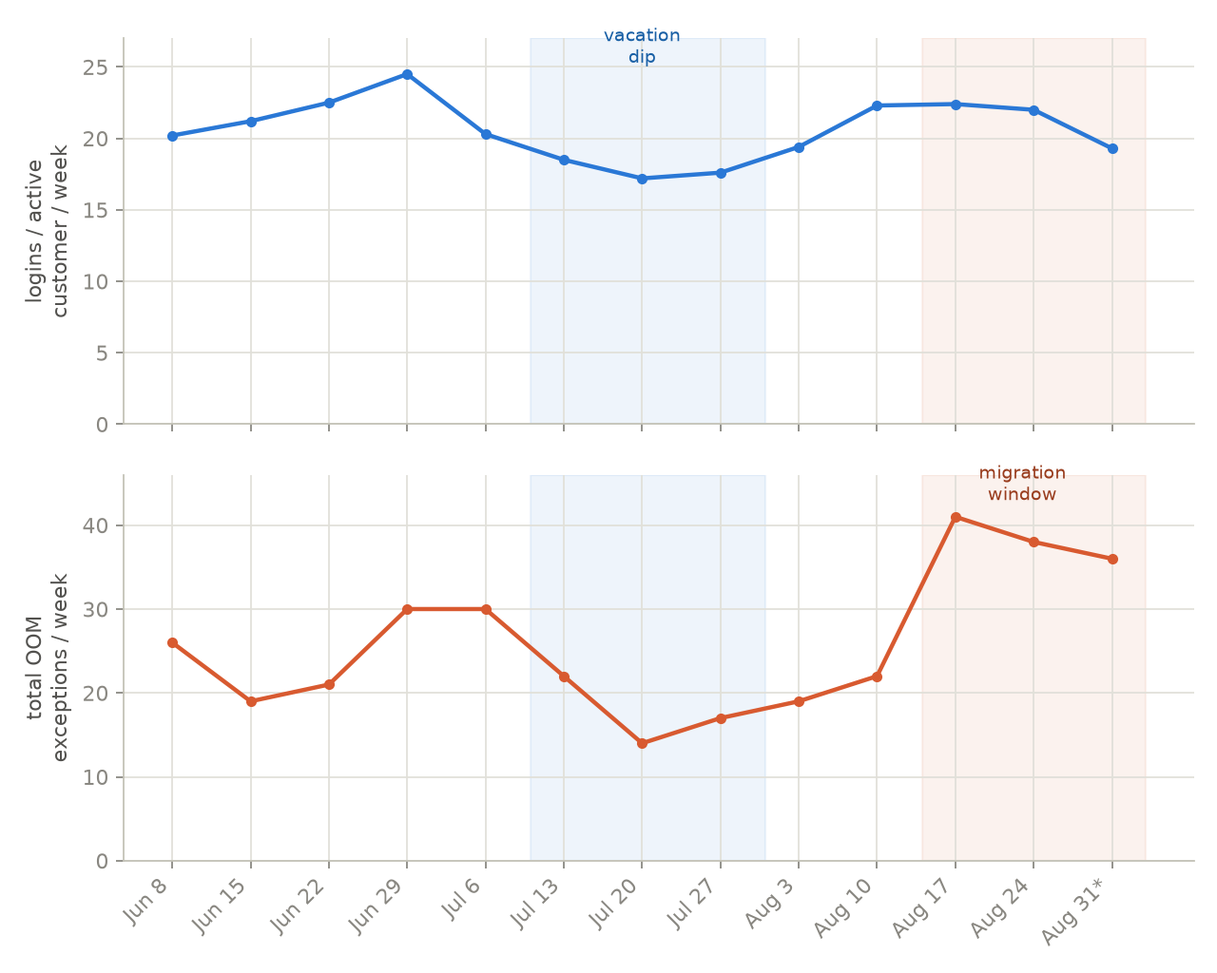
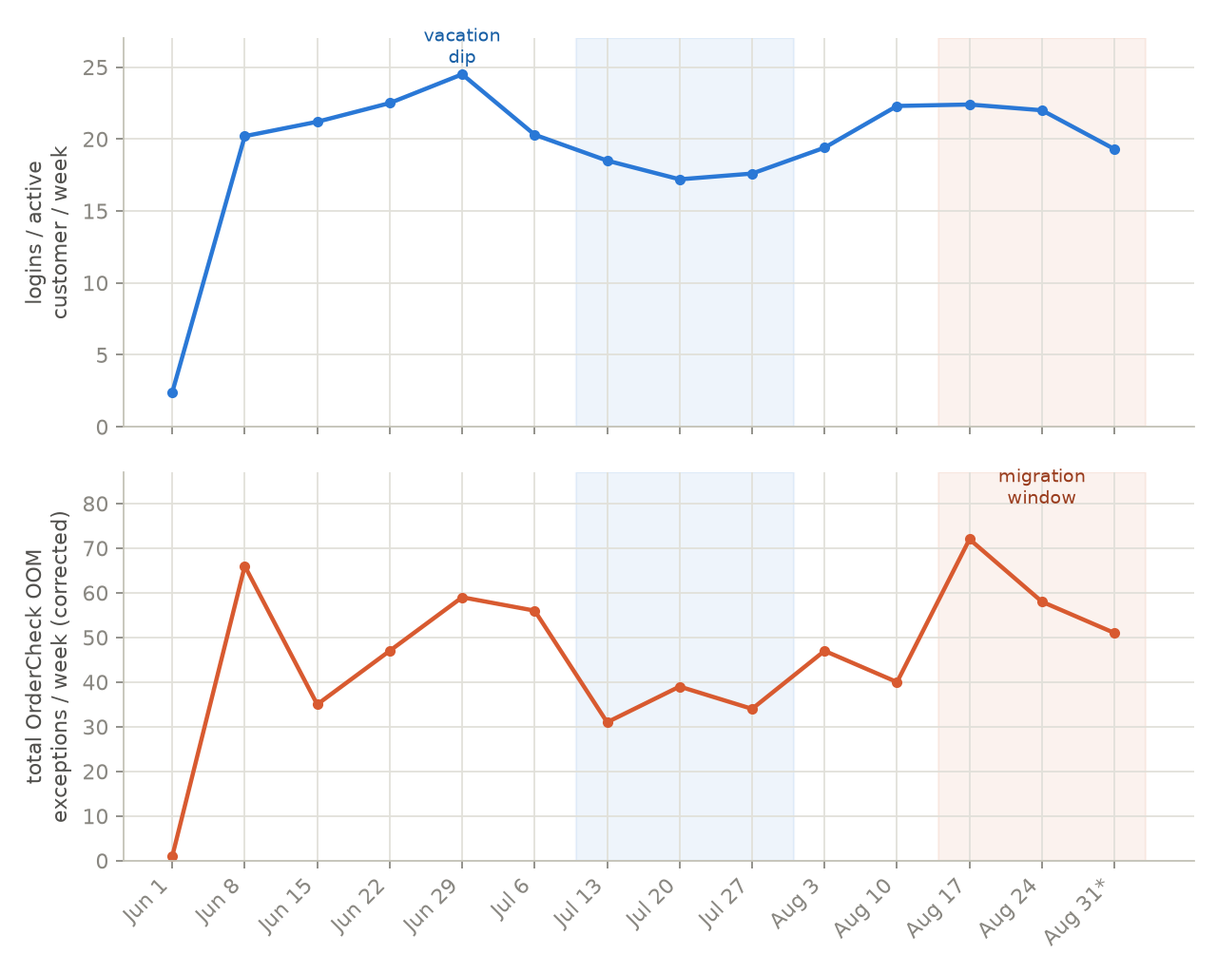
correct ordercheck oom counts to include pre-OrderCheck ExecuteDataSet crashes, add other-sources breakdown

diff --git a/Support/support-ordercheck-search-oom-and-freezes.md b/Support/support-ordercheck-search-oom-and-freezes.md
@@ -1,13 +1,15 @@
 # Incident: OrderCheck search — slow responses, UI freezes, and OutOfMemoryExceptions
 
 **Status:** Under investigation — root cause not fully confirmed, contributing factors identified
-**Scope:** Fleet-wide (43+ customers affected by OOM crashes in 30 days); UI freeze pattern confirmed in detail for one customer
+**Scope:** Fleet-wide (133 customers, 636 OrderCheck OOM crashes in the last 90 days; 91 customers, 260 crashes in the last 30 days); UI freeze pattern confirmed in detail for one customer
 **Date of write-up:** 2026-09-03
 **Related:** [PR #13088 "Move OrderCheck search off the UI thread"](https://opter.ghe.com/code/Main/pull/13088) (open since 2026-06-17, unreviewed)
 
 ## Summary
 
-Customers searching in Order Control (OrderCheck) intermittently experience either a frozen application (up to 21+ minutes observed) or a hard failure dialog ("Fel vid hämtande av data — Kontakt din systemadministratör"). Both symptoms trace back to the same server-side code path: `OrderCheck.GetAllSimpleResult` → `OrderCheck.LoadSearchResultModelsFromDataSet`. The failure dialog case has been confirmed to be a genuine `System.OutOfMemoryException` server-side, occurring for 43 different customers in the last 30 days. The freeze case has been confirmed via DeadlockWatchdog telemetry to be a real multi-minute block on the UI thread, not a false positive.
+Customers searching in Order Control (OrderCheck) intermittently experience either a frozen application (up to 21+ minutes observed) or a hard failure dialog ("Fel vid hämtande av data — Kontakt din systemadministratör"). Both symptoms trace back to the same server-side code path: `OrderCheck.GetAllSimpleResult` → `OrderCheck.LoadSearchResultModelsFromDataSet`. The failure dialog case has been confirmed to be a genuine `System.OutOfMemoryException` server-side, occurring for **133 different customers, 636 times, in the last 90 days** (91 customers, 260 times, in the last 30 days) — this figure includes crashes that fail earlier in the pipeline, during `ExecuteDataSet`'s post-processing step, before execution ever reaches OrderCheck's own C# code (see Fact #3 below; an earlier pass undercounted this by about half). The freeze case has been confirmed via DeadlockWatchdog telemetry to be a real multi-minute block on the UI thread, not a false positive.
+
+For context, OrderCheck accounts for the large majority (~86%) of all `OutOfMemoryException`s in `Opter.Main.ServerApi`: the remaining ~14% (105 occurrences, 24 customers, 90 days) come from unrelated features — the Statistics API, single-order loading, Dispatch, and auto-dispatch route planning — that share the same underlying architectural pattern (see "Other ServerApi OOM sources" below) but are not part of this incident's scope.
 
 Investigation found a long-standing structural weakness in how OrderCheck materializes search results, a client-side design flaw that turns any slow server response into a full application freeze, and a correlation with the .NET 9 → .NET 10 runtime upgrade that shipped between the `2025.06` and `2025.12` release branches. No single root cause has been conclusively isolated; several contributing factors have been identified and are ranked below.
 
@@ -17,13 +19,15 @@ Investigation found a long-standing structural weakness in how OrderCheck materi
 |---|---|---|
 | Markis City Service AB (`markiscityse`) | UI freezes, no crashes | 263 DeadlockWatchdog freeze episodes in 30 days; several 200-500+ seconds; one 1305-second (21.75 min) outlier on 2026-09-01; affects at least 8 different workstations |
 | itide.no | Hard crash, "Fel vid hämtande av data" | Freshdesk ticket #149308, 2026-08-31; log shows `System.OutOfMemoryException` in `OrderCheck.LoadSearchResultModelsFromDataSet` |
-| 41 other customers | Same OOM exception | Confirmed via Azure Log Analytics (`Logs_CL`), same exact exception/stack, 100+ occurrences in 30 days |
+| 90 other customers | Same OOM exception | Confirmed via Azure Log Analytics (`Logs_CL`), same underlying bug (both the OrderCheck-labeled and the earlier-in-pipeline manifestation — see Fact #3), 91 distinct customers total (260 occurrences) in the last 30 days |
 
 Notably, Markis City Service — the customer with by far the most severe and frequent *freezes* — has **zero** OOM exceptions in the same 30-day window. Freezing and crashing are related symptoms of the same code path but are not the same event, and don't always co-occur for the same customer.
 
 ## Evidence: OOM trend and version migration (90 days, weekly)
 
-**Methodology note**: customer counts below are scoped to `Assembly == "Opter.Main.ServerApi"` only, with one version picked per customer per week (`arg_max` by time). An earlier pass counted a customer as "active on version X" if *any* of their services (across `Client`, `ServerApi`, `Web.App`, `MessageServer`, unrelated components like `FAQ.Routing`, etc.) reported that version prefix — this let a single customer be counted into multiple, non-mutually-exclusive branch buckets in the same week, and pulled in an unrelated component (`Opter.FAQ.Routing`, static version `1.0.0.0`, unrelated to release branches) that inflated an "other" bucket with no real meaning. That first pass is not used below; the charts and numbers here use the corrected, single-assembly methodology.
+**Methodology note (customer counts)**: customer counts below are scoped to `Assembly == "Opter.Main.ServerApi"` only, with one version picked per customer per week (`arg_max` by time). An earlier pass counted a customer as "active on version X" if *any* of their services (across `Client`, `ServerApi`, `Web.App`, `MessageServer`, unrelated components like `FAQ.Routing`, etc.) reported that version prefix — this let a single customer be counted into multiple, non-mutually-exclusive branch buckets in the same week, and pulled in an unrelated component (`Opter.FAQ.Routing`, static version `1.0.0.0`, unrelated to release branches) that inflated an "other" bucket with no real meaning. That first pass is not used below; the charts and numbers here use the corrected, single-assembly methodology.
+
+**Methodology note (OOM counts)**: the OOM figures and charts below use the *complete* OrderCheck definition — `Exception has "OrderCheck"`, `Exception has "LoadSearchResultModelsFromDataSet"`, or `Message has "k2_orc_get_all"` — which captures crashes regardless of whether they happen inside OrderCheck's own C# code or one step earlier, during `ExecuteDataSet`'s generic post-processing (where the stack trace never mentions "OrderCheck" even though the query being executed is `k2_orc_get_all`/`k2_orc_get_all_by_all`). An earlier pass used only the first two conditions and undercounted OrderCheck's true OOM total by roughly half (see "Other ServerApi OOM sources" below for the full breakdown and how this was found). All charts in this section were regenerated with the corrected definition.
 
 ![Weekly OrderCheck OutOfMemoryException count, split by ServerApi version](images/ordercheck-oom-weekly-by-version.png)
 
@@ -41,21 +45,21 @@ What these show:
 
 ![Weekly login volume vs. total OOM exceptions, showing the vacation dip and the migration window as two distinct effects](images/ordercheck-login-vs-oom-crosscheck.png)
 
-- **The vacation dip and the migration wave are two separate, additive effects on the OOM count, not one confounding the other.** Total weekly OOM count (summed across all versions) correlates with login volume at **r = 0.63** during the stable pre-migration window (2026-06-08 through 2026-08-10) — the OOM curve visibly tracks the login curve's shape, bottoming out in the same week (Jul 20, the lowest point in both series). That correlation weakens to r = 0.49 once the migration weeks are folded in, because the migration window (Aug 17 onward) decouples the two: login volume stays roughly flat (~22/week) while OOM count jumps from 22 to 41, driven by branch composition rather than usage. Practically: the vacation dip modestly suppressed incident counts in July; the migration then dominates and drives counts well above anything usage volume alone would explain.
+- **The vacation dip and the migration wave are two separate, additive effects on the OOM count, not one confounding the other — though the correlation is more modest than an earlier pass reported.** Total weekly OOM count (summed across all versions, corrected definition) correlates with login volume at **r = 0.46** during the stable pre-migration window (2026-06-08 through 2026-08-10) — weaker than the r = 0.63 calculated against the earlier, undercounted OOM series (that series was missing about half the true OrderCheck OOM volume, concentrated unevenly across weeks, which distorted the correlation). The two curves still broadly move together — both dip through the vacation weeks (OOM bottoms at 31/week on Jul 13, logins bottom at 17.2/week on Jul 20, one week apart rather than the same week) — but a single anomalous week (Jun 8, where `2025.06` alone accounts for 44 of that week's 66 OrderCheck OOM exceptions, concentrated rather than spread across customers) weakens the fit. Full-13-week correlation (including the migration window) is r = 0.52. The migration window (Aug 17 onward) still visibly decouples the two series: login volume stays roughly flat (~22/week) while total OOM count jumps from 40 (Aug 10) to 72 (Aug 17), driven by branch composition rather than usage.
 - **A third cohort exists**: a stable ~23-32 customers throughout the period run a separate `20260101.*` build family, distinct from both `2025.06` and `2025.12`. This is a real, minor branch, not noise.
-- **The incidence-rate gap is not just a 90-day aggregate artifact**: normalizing OOM count by active customers per branch per week, `2025.12` runs at roughly 2.4-7.9 exceptions per 100 customers most weeks, versus `2025.06` at roughly 0.2-5.5 (weeks with fewer than 10 remaining `2025.06` customers are omitted from that line as statistically unreliable — this excludes the final two weeks, where the migration itself was still completing mid-week and produces a weekly-binning artifact: a customer who migrated mid-week is attributed wholly to `2025.12` for that week's customer count, while any `2025.06`-version exceptions they threw earlier that same week still show up in the `2025.06` numerator). The rate gap holds consistently from the very first week of the observation window, before the migration wave even accelerated — i.e. it isn't an effect of the migration itself, it predates it.
+- **The incidence-rate gap holds up under the corrected OOM definition, though it's noisier week-to-week than "consistently double."** Normalizing OOM count by active customers per branch per week, `2025.12` averages **8.7** exceptions per 100 customers across the 12 comparable weeks (before the final two weeks' customer counts become too small to trust), versus `2025.06` averaging **6.5** — about 1.35x, down slightly from the 1.55x calculated against the undercounted series. `2025.12` runs higher in 8 of those 12 weeks; `2025.06` is actually higher in the other 4 (including the very first week, and the Jun 8 anomaly above). The gap is a real, persistent tendency across enough weeks to be meaningful — not a rule that holds in every single week.
 
 ## Facts (directly observed/confirmed)
 
 1. Multiple customers have reported slow OrderCheck searches and hard error dialogs.
 2. At least one confirmed case (itide.no, ticket #149308, 2026-08-31) traced the error dialog directly to a server-side `System.OutOfMemoryException` thrown in `Opter.Main.Server.Orders.OrderCheck.OrderCheck.LoadSearchResultModelsFromDataSet`, called from `GetAllSimpleResult`.
-3. The identical exception, in the identical code path, has occurred for **43 distinct customers, 100+ times in the last 30 days** — this is a fleet-wide issue, not isolated to one customer.
+3. The identical underlying bug has occurred for **91 distinct customers, 260 times, in the last 30 days** (133 customers, 636 times, in the last 90 days) — this is a fleet-wide issue, not isolated to one customer. This figure combines two manifestations of the same root cause: crashes where the stack trace explicitly names `OrderCheck`/`LoadSearchResultModelsFromDataSet` (the manifestation an earlier pass of this investigation counted alone — 260/91 90-day, i.e. undercounting by about half), and crashes that fail one step earlier in the pipeline, inside `DatabaseAccess.ExecuteDataSet`'s post-processing (`AdjustTimeZoneToLocalTime`), before execution ever reaches OrderCheck's own C# code — identifiable only via the `Message` field, which logs the actual stored procedure called (`k2_orc_get_all`/`k2_orc_get_all_by_all`). See "Other ServerApi OOM sources" below for how this was found and what else shares the same underlying pattern.
 4. DeadlockWatchdog logs confirm genuine multi-minute UI-thread freezes for Markis City Service: 263 episodes over 30 days, several 200-500+ seconds, one 21-minute outlier, all tied specifically to `OrderCheckViewModel.get_SearchCommand` → `GetAllSimpleResult`.
 5. The client makes this call **synchronously on the UI thread**: `SearchCommand` is a plain (non-async) `RelayCommand` whose handler calls `CallerBase.RestCall`, which blocks via `.GetAwaiter().GetResult()`. Confirmed by direct code inspection ([OrderCheckViewModel.cs](../../Main/Order/ViewModels/Order/OrderCheck/WPF/OrderCheckViewModel.cs), [CallerBase.cs](../../Main/ServerProxy/CallerBase.cs)), not inferred.
 6. Freezes cluster across multiple users/machines within the same time windows (observed in Markis City Service's data — e.g. MC040 and ANDREAS-LAPTOP both froze for 295-499s within minutes of each other on 2026-09-02).
 7. **Not all freezes correlate with OOM crashes.** Markis City Service had 263 freeze episodes but zero OOM exceptions in the same period.
 8. `releases/2025.06` targets **.NET 9.0**; `releases/2025.12` (and `master`) target **.NET 10.0** — confirmed via `.csproj` (`ServerApi/Opter.Main.ServerApi.csproj`).
-9. Customers on `2025.12` show a higher OOM incidence than customers on `2025.06`, both in the 90-day aggregate (11.5% of that branch's customers vs. 7.7%) and, more granularly, in a corrected week-by-week incidence rate (~2.4-7.9 vs. ~0.2-5.5 OOM exceptions per 100 active customers per week — see "Evidence: OOM trend and version migration" above). `2025.12` also shows higher peak ServerApi pod memory (91.9% max vs 54.4% max of the pod's 1000 MB container limit, in the settled 6-24h-uptime window). The weekly rate gap is present from the first week of the 90-day window, before the `2025.06`→`2025.12` migration wave accelerated — it is not an artifact of the migration itself.
+9. Customers on `2025.12` show a higher OOM incidence than customers on `2025.06` on average, using the corrected (complete) OOM definition: **8.7 vs. 6.5 exceptions per 100 active customers per week** on average across the 12 comparable weeks (~1.35x) — `2025.12` runs higher in 8 of those 12 weeks, `2025.06` in the other 4 (see "Evidence: OOM trend and version migration" above for the full breakdown; this replaces an earlier, undercounted calculation that showed a ~1.55x gap and overstated its week-to-week consistency). `2025.12` also shows higher peak ServerApi pod memory (91.9% max vs 54.4% max of the pod's 1000 MB container limit, in the settled 6-24h-uptime window). The rate gap is present from the first week of the 90-day window, before the `2025.06`→`2025.12` migration wave accelerated — it is not an artifact of the migration itself, though it is noisier week-to-week than a clean, monotonic law.
 10. No explicit GC tuning exists anywhere in the stack — not in any `.csproj`, not in `ServerApi/Dockerfile`, not in the shared base image (`VersionBuilder/BaseImage/Dockerfile`, which is just `mcr.microsoft.com/dotnet/aspnet:10.0` + fonts). Both .NET 9 and .NET 10 builds run on stock GC defaults (`System.GC.Server: true`, the SDK default for ASP.NET Core apps).
 11. **No substantive functional diff exists between `2025.06` and `2025.12`** for `OrderCheck.cs`, `ModelBase.cs` (incl. `Clone<T>()`), `OrderCheckSearchResult.cs`, or `k2_orc_get_all_by_all.sql`, beyond CSharpier reformatting and two trivial (2-10 line) additions (an access-attribute annotation, and loading one extra string field `SHI_SubcontractorResource`). This is a direct branch-to-branch comparison (`git diff`/`git log releases/2025.06..releases/2025.12`), which lists every commit present in `2025.12` but not `2025.06` regardless of how old it is — it is **not** time-boxed, and already surfaced commits from November 2025 and February 2026. So this rules out a code-level explanation across the full lifetime of both branches, not just recent history. (An earlier, separate "any changes in the last 3 months" check was run first and is superseded by this — that check was time-boxed and would have missed older changes on its own; it is not independent evidence and shouldn't be read as such.)
 12. For Markis City Service's shared SQL elastic pool (`opterproductionsweden1c`), CPU %, Data IO %, and Workers % all sit comfortably within headroom over the last 7 days (CPU peaks ~40-50%, Data IO ~20-25%, Workers near 0%). Aggregate resource exhaustion is ruled out for that pool, on those three metrics.
@@ -69,23 +73,48 @@ What these show:
   - For Consignment/Shipment/PriceItemCost search modes, every shipment/price-item beyond the first calls `ModelBase.Clone<T>()` ([ModelBase.cs:76-100](../../Main/Model/ModelBase.cs)), which reflects over **all ~350 properties** to produce a full duplicate object — not a lean child row. A delivery with 10 shipments costs 11 full-size objects instead of 1 large + 10 small. This is an O(rows × fanout) memory (and CPU) multiplier with no ceiling.
   - No safeguard exists anywhere: no max-row check, no warning, no TODO acknowledging the risk.
 
+## Other ServerApi OOM sources (why OrderCheck's count needed correcting)
+
+Checking `Assembly == "Opter.Main.ServerApi"` for **every** `OutOfMemoryException` in the last 90 days, regardless of feature, splits cleanly into two groups:
+
+| | Occurrences | Distinct customers |
+|---|---|---|
+| OrderCheck (complete definition — see methodology note above) | **636** | **133** |
+| Everything else in ServerApi | **105** | **24** |
+
+OrderCheck is ~86% of all ServerApi OOM crashes fleet-wide. The "everything else" bucket breaks down as:
+
+| Source | Occurrences | Customers | Feature |
+|---|---|---|---|
+| `System.Data.Common.DecimalStorage.Get` | 34 | 1 | Unidentified — concentrated in a single customer hitting a different repeated OOM |
+| `Opter.Main.Server.Dispatching.DispatchV2.ParseDataContainer` | 21 | 2 | Dispatch |
+| `k2_stat_api_query_by_changed` (via generic `ExecuteDataSet`/`AdjustTimeZoneToLocalTime`) | 30 | 3 | Statistics API — bulk change-export over a wide date range |
+| `System.Data.Common.Int32Storage.Get` | 9 | 2 | Unidentified |
+| `k2_ods_get_order` (via generic `ExecuteDataSet`) | 5 | 4 | Single-order data-structure load |
+| `Opter.Main.Order.AutoDispatching.AutoDispatch.GetRoutePlans` / `QueueItem` | 13 + 7 | 1 each | Auto-dispatch route planning |
+| Long tail (~15 distinct causes) | ~1-4 each | mostly 1 | Scattered, various mechanisms |
+
+**How the OrderCheck undercount was found**: the original filter (`Exception has "OrderCheck"` or `"LoadSearchResultModelsFromDataSet"`) missed every case where the `OutOfMemoryException` fires *before* control reaches OrderCheck's own C# code — specifically, inside `DatabaseAccess.ExecuteDataSet`'s generic post-processing step (`AdjustTimeZoneToLocalTime`, which walks the freshly-loaded `DataSet` adjusting date/time columns, itself unbounded and equally capable of exhausting memory on a large result set). When the crash happens there, the stack trace never contains the word "OrderCheck" — but the `Message` field logs the actual stored procedure invoked, and checking that revealed **300 of the 90-day total came from `k2_orc_get_all`/`k2_orc_get_all_by_all`** (OrderCheck's own stored procedure) despite not matching the original filter. The same generic `ExecuteDataSet`/`AdjustTimeZoneToLocalTime` code path is shared by several other features (Statistics API, single-order load), which is how those were discovered as genuinely separate, smaller sources.
+
+**Implication**: the root-cause fix (row cap and/or streaming, see Recommended next steps) belongs at the shared `DatabaseAccess.ExecuteDataSet`/`AdjustTimeZoneToLocalTime` layer, not solely in OrderCheck's `LoadSearchResultModelsFromDataSet`. OrderCheck is overwhelmingly the biggest instance of this pattern, but not the only one — a fix scoped only to OrderCheck's `Clone<T>()` fan-out would leave the Statistics API, Dispatch, and auto-dispatch instances of the same underlying weakness in place.
+
 ## Open questions / not yet ruled out
 
 - **Database vs. pod as the source of slow response — unresolved.** We've ruled out *aggregate* SQL resource exhaustion for one customer's elastic pool on three metrics (CPU/IO/Workers), but:
   - Lock/blocking contention is invisible to those metrics and has not been checked (would need Query Store or a live blocking-chain capture during an incident).
   - No other customer's database has been examined.
   - No actual execution plan for `k2_orc_get_all_by_all` has been pulled.
-- **The .NET 9→10 GC behavior change is a hypothesis, not a confirmed mechanism.** We have a real, consistent correlation (higher peak memory + higher OOM rate on the .NET 10 branch, with no other explanatory code change found) but have not verified against .NET's actual GC release notes what, if anything, changed in Server GC's container-memory-limit heuristics between .NET 9 and .NET 10.
-- **Sample size caveat, updated**: with the corrected weekly counts, the `2025.06` (.NET 9) group ranges from ~270-280 customers down to single digits as the migration completes, vs. ~290-570 on `2025.12` (.NET 10). The rate gap is visible in most individual weeks, not just the 90-day aggregate, which strengthens confidence — but the final two weeks of `2025.06` data are excluded from the rate comparison (fewer than 10 remaining customers, and a weekly-binning artifact around the mid-week migration cutover — see "Evidence" section above).
+- **The .NET 9→10 GC behavior change is a hypothesis, not a confirmed mechanism.** We have a real correlation (higher peak memory + higher average OOM rate on the .NET 10 branch, with no other explanatory code change found), noisier week-to-week than initially reported but still present on average, and have not verified against .NET's actual GC release notes what, if anything, changed in Server GC's container-memory-limit heuristics between .NET 9 and .NET 10.
+- **Sample size caveat, updated**: with the corrected weekly counts and the corrected (complete) OOM definition, the `2025.06` (.NET 9) group ranges from ~270-280 customers down to single digits as the migration completes, vs. ~290-570 on `2025.12` (.NET 10). `2025.12` runs a higher incidence rate in 8 of 12 comparable weeks (`2025.06` higher in the other 4) — a real average gap (~1.35x) but not a rule that holds every week. The final two weeks of `2025.06` data are excluded from the rate comparison (fewer than 10 remaining customers, and a weekly-binning artifact around the mid-week migration cutover — see "Evidence" section above).
 - Whether the OOM-triggering searches and the freeze-triggering searches share a common size/selectivity threshold, or represent different severities of the same problem, has not been established.
 - **Migration velocity from `2025.06` to `2025.12` has now been measured directly** (see "Evidence" section above) — it was not a slow drift but a sharp two-week transition (2026-08-17 to 2026-08-31). This confirms the mechanism (more customers moving onto the higher-incidence branch increases fleet-wide absolute counts) but the *rate* gap itself predates and is independent of the migration timing.
 - ~~Not yet built: a usage-volume view~~ — built (see "Evidence" section above, login-based chart). Confirms a genuine ~25-30% dip in usage intensity during the Swedish vacation period, distinct from customer presence (which stays flat).
-- ~~Cross-check the vacation dip against the OOM weekly series~~ — done, see "Evidence" section above. **Two distinct, additive effects on the same metric, confirmed quantitatively**: usage volume (login rate) correlates with total weekly OOM count at **r = 0.63** during the stable pre-migration window (2026-06-08 through 2026-08-10), dropping to r = 0.49 once the migration weeks are included — because the migration window briefly *decouples* the two (logins stay roughly flat at ~22/week while OOM count jumps from 22 to 41, driven by branch composition, not usage). Both the vacation effect and the migration effect are real; they just dominate on different weeks.
+- ~~Cross-check the vacation dip against the OOM weekly series~~ — done, see "Evidence" section above. **Two distinct, additive effects on the same metric, confirmed quantitatively (using the corrected, complete OOM definition)**: usage volume (login rate) correlates with total weekly OOM count at **r = 0.46** during the stable pre-migration window (2026-06-08 through 2026-08-10), rising slightly to r = 0.52 once the migration weeks are included — the migration window still visibly *decouples* the two (logins stay roughly flat at ~22/week while OOM count jumps from 40 to 72, driven by branch composition, not usage), but the correlation is more modest than an earlier pass reported (that pass used the undercounted OOM series). Both the vacation effect and the migration effect are real; they just dominate on different weeks, and neither is as clean a signal in isolation as the combination suggests.
 
 ## Hypotheses (plausible, unconfirmed)
 
 - .NET 10's Server GC commits more memory relative to the container limit than .NET 9 did, for the same workload, as a performance/throughput tradeoff — the leading candidate explanation for the fleet-wide ServerApi memory-plateau shift (every `serverapi` pod, across ~40 sampled customers, climbs from ~150-230 MB at cold start to 35-90% of its 1000 MB limit within 6-24 hours and stays there, with no restarts/crash-loops — i.e. not a leak in the classic sense, a sustained plateau).
-- The `2025.06` → `2025.12` customer migration (now confirmed as a sharp two-week transition around 2026-08-17 to 2026-08-31, see "Evidence" section above) is why fleet-wide OOM/slowness incident *counts* have trended upward (14-30/week in June-July → 31-41/week by mid-to-late August) — this mechanism is now directly supported by data, though the underlying *rate* difference between branches predates and is independent of the migration itself.
+- The `2025.06` → `2025.12` customer migration (now confirmed as a sharp two-week transition around 2026-08-17 to 2026-08-31, see "Evidence" section above) is why fleet-wide OOM/slowness incident *counts* have trended upward (31-59/week through June-July → 51-72/week by mid-to-late August, using the corrected complete OOM definition) — this mechanism is now directly supported by data, though the underlying *rate* difference between branches predates and is independent of the migration itself.
 - Slow SQL response (query-plan degradation on broad/unselective searches, from `k2_orc_get_all_by_all`'s forced `INNER LOOP JOIN` hints across `DEL_Delivery`/`SHI_Shipment`/`ADR_Address`/`RCU_ResourceCreditingUnit`) is a contributing factor to freezes independent of the memory story — plausible from the SP's structure, unconfirmed without an execution plan.
 
 ## Timeline of relevant code changes
@@ -100,11 +129,12 @@ What these show:
 
 1. **Get [PR #13088](https://opter.ghe.com/code/Main/pull/13088) reviewed and merged.** It doesn't fix the underlying slowness or crash, but it converts "frozen, unresponsive application for up to 21 minutes" into "visible busy spinner while a slow operation completes" — a major UX improvement for the exact same underlying condition, ready to ship today.
 2. **Add a row-count/size guard in `GetAllSimpleResult`** (e.g. `COUNT(*)`/`TOP N+1` pre-check) to fail fast with a friendly "narrow your search" message instead of materializing and crashing. Stops the hard-crash case; does not address the more common intermittent slowness.
-3. **Replace `Clone<T>()`'s reflection fan-out in `LoadSearchResultModelsFromDataSet`** with a lean child-row DTO for the shipment/price-item fan-out, instead of duplicating the full 350-property object per child row. Addresses both the OOM crashes and the everyday intermittent slowness at the mechanical root; the biggest-impact code fix identified.
-4. **Test an explicit GC heap hard limit** (`System.GC.HeapHardLimitPercent` via `runtimeconfig.json`, or `DOTNET_GCHeapHardLimitPercent` env var) on `ServerApi` pods, to force more conservative memory behavior under container constraints. Cheap, code-free, fully reversible; worth testing on a small customer cohort before broader rollout.
-5. **Confirm or rule out SQL-side contribution**: get blocking-chain/Query Store access for one affected customer during a live incident, and pull an actual execution plan for `k2_orc_get_all_by_all` under a broad/unselective search.
-6. **Verify the .NET 9→10 GC hypothesis** against Microsoft's actual GC release notes/changelog for those versions, to confirm or rule out the specific mechanism before relying on it as a explanation in any customer-facing communication.
-7. ~~Build a usage-volume view~~ — done (see "Evidence" section above). Remaining: cross-check the login-volume dip against the OOM weekly series to see whether reduced vacation-period usage measurably suppressed incident counts in those specific weeks.
+3. **Replace `Clone<T>()`'s reflection fan-out in `LoadSearchResultModelsFromDataSet`** with a lean child-row DTO for the shipment/price-item fan-out, instead of duplicating the full 350-property object per child row. Addresses both the OOM crashes and the everyday intermittent slowness at the mechanical root; the biggest-impact OrderCheck-specific code fix identified.
+4. **Consider a size guard or streaming fix at the shared `DatabaseAccess.ExecuteDataSet`/`AdjustTimeZoneToLocalTime` layer**, not just inside OrderCheck. ~86% of ServerApi's OOM crashes are OrderCheck, but the same unbounded-`DataSet` pattern independently crashes the Statistics API, single-order loading, and Dispatch (see "Other ServerApi OOM sources" above). A fix scoped only to OrderCheck's `Clone<T>()` fan-out would leave those other features exposed to the same failure mode.
+5. **Test an explicit GC heap hard limit** (`System.GC.HeapHardLimitPercent` via `runtimeconfig.json`, or `DOTNET_GCHeapHardLimitPercent` env var) on `ServerApi` pods, to force more conservative memory behavior under container constraints. Cheap, code-free, fully reversible; worth testing on a small customer cohort before broader rollout.
+6. **Confirm or rule out SQL-side contribution**: get blocking-chain/Query Store access for one affected customer during a live incident, and pull an actual execution plan for `k2_orc_get_all_by_all` under a broad/unselective search.
+7. **Verify the .NET 9→10 GC hypothesis** against Microsoft's actual GC release notes/changelog for those versions, to confirm or rule out the specific mechanism before relying on it as a explanation in any customer-facing communication.
+8. ~~Build a usage-volume view; cross-check it against the OOM series~~ — done (see "Evidence" section above). Finding: both a vacation-driven usage dip and the version migration measurably affect OOM incident counts, as two separate, additive effects — see the Evidence section for the (now more modest, r≈0.46-0.52) correlation.
 
 ## Supporting evidence / data sources used
 
@@ -113,6 +143,7 @@ What these show:
 - Azure SQL Elastic Pool metrics (AdminTool Cloud Status page) for `opterproductionsweden1c`, last 7 days: CPU %, Data IO %, Workers %.
 - Git history: `releases/2025.06`, `releases/2025.12`, `master` — diffs and commit logs for `OrderCheck.cs`, `ModelBase.cs`, `OrderCheckSearchResult.cs`, relevant stored procedures, `.csproj` files, Dockerfiles.
 - [PR #13088](https://opter.ghe.com/code/Main/pull/13088) and its review comments.
-- Weekly OOM-count, active-customer-count, and incidence-rate charts (`images/ordercheck-oom-weekly-by-version.png`, `images/ordercheck-serverapi-customers-by-version.png`, `images/ordercheck-oom-incidence-rate.png`), generated from `Logs_CL` scoped to `Assembly == "Opter.Main.ServerApi"`, 2026-06-01 through 2026-09-03. Raw weekly series available on request — not checked into this doc to keep it readable.
+- Weekly OOM-count, active-customer-count, and incidence-rate charts (`images/ordercheck-oom-weekly-by-version.png`, `images/ordercheck-serverapi-customers-by-version.png`, `images/ordercheck-oom-incidence-rate.png`), generated from `Logs_CL` scoped to `Assembly == "Opter.Main.ServerApi"`, 2026-06-01 through 2026-09-03, using the corrected/complete OrderCheck OOM definition (see "Other ServerApi OOM sources"). Raw weekly series available on request — not checked into this doc to keep it readable.
+- Fleet-wide `Assembly == "Opter.Main.ServerApi"` `OutOfMemoryException` breakdown (all features, 90 days) — basis for the "Other ServerApi OOM sources" section and the corrected headline counts.
 - Usage-volume chart (`images/ordercheck-usage-volume-logins.png`), from `Logs_CL` messages matching "User logged in to Opter client", same 90-day window.
 - Login-vs-OOM cross-check chart (`images/ordercheck-login-vs-oom-crosscheck.png`) and correlation calculation, same underlying weekly series.
